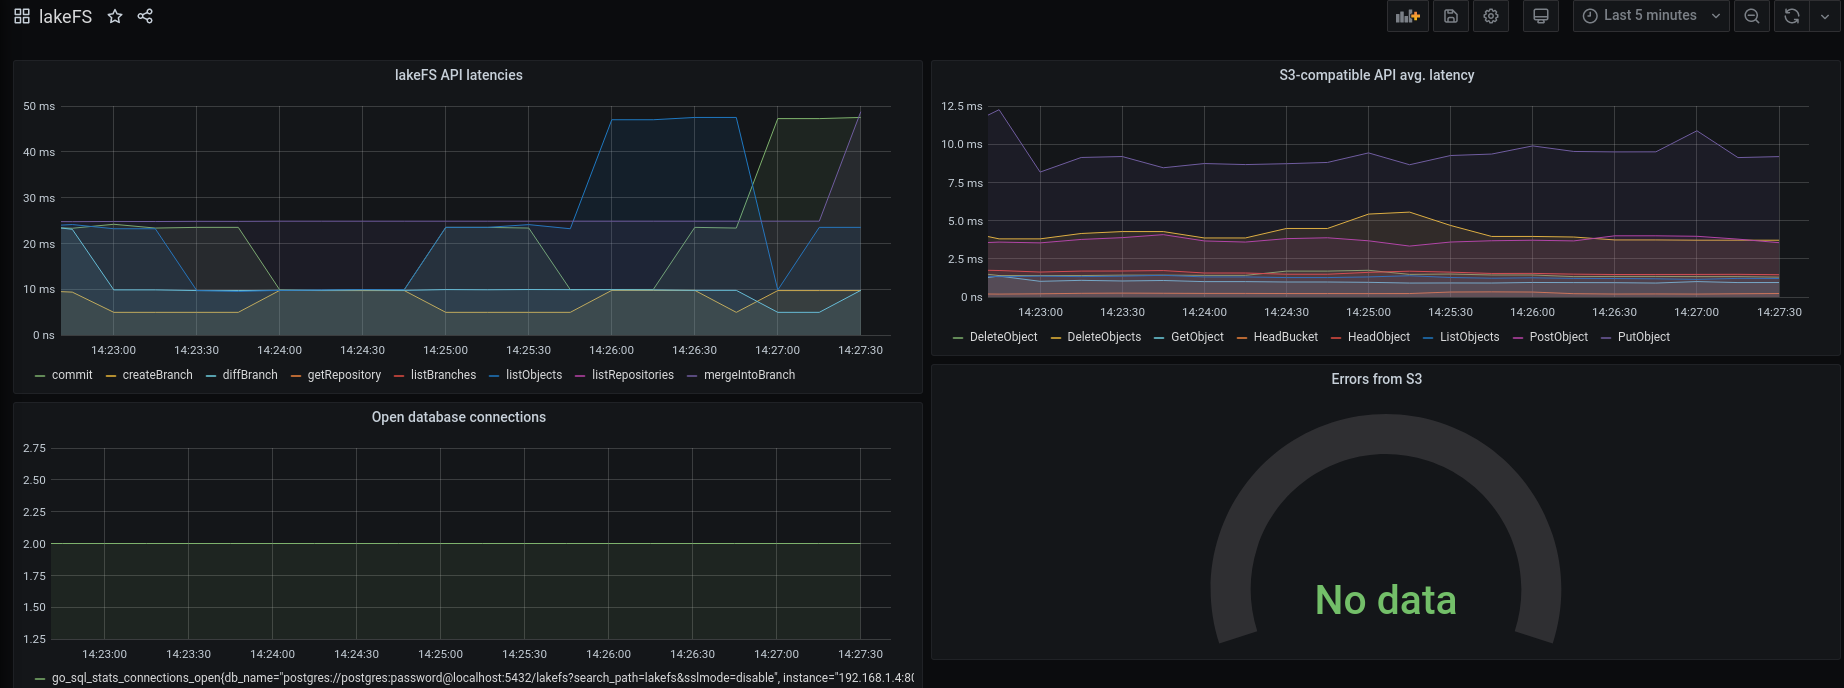
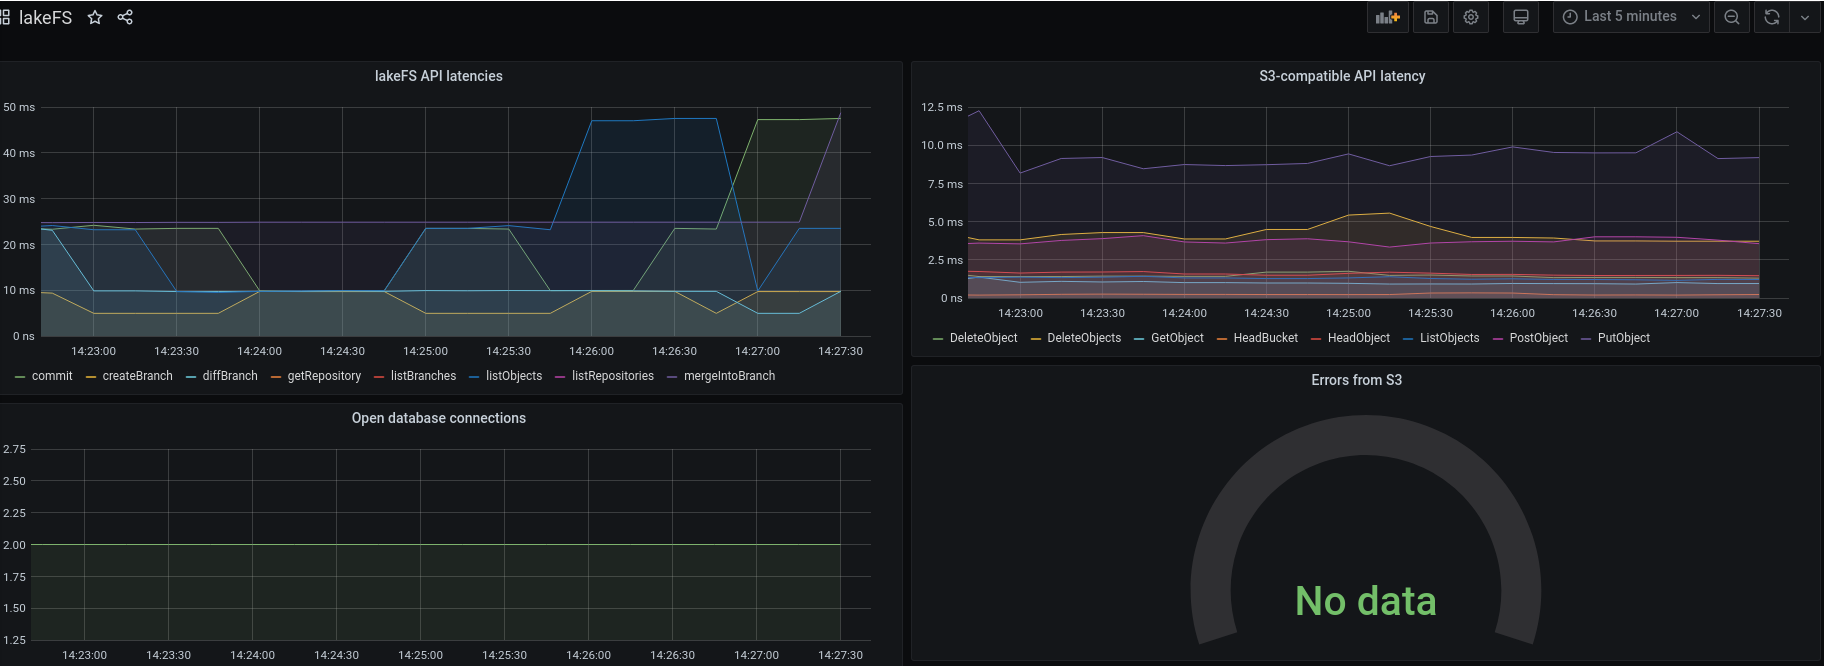
minor doc fixes (#354)
Former-commit-id: 3b7961413da24b28e6e04cb51078b61ddc0c28fc

diff --git a/docs/deploying/monitor.md b/docs/deploying/monitor.md
@@ -56,9 +56,9 @@ or [increase](https://prometheus.io/docs/prometheus/latest/querying/functions/#i
 sum by (operation)(histogram_quantile(0.99, rate(api_request_duration_seconds_bucket[1m])))
 ```
 
-### Average latency of S3-compatible API
+### 50th percentile of S3-compatible API latencies
 ```
-sum by (operation)(rate(gateway_request_duration_seconds_sum[1m]) / rate(gateway_request_duration_seconds_count[1m]))
+sum by (operation)(histogram_quantile(0.5, rate(gateway_request_duration_seconds_bucket[1m])))
 ```
 
 ### Number of errors in outgoing S3 requests
